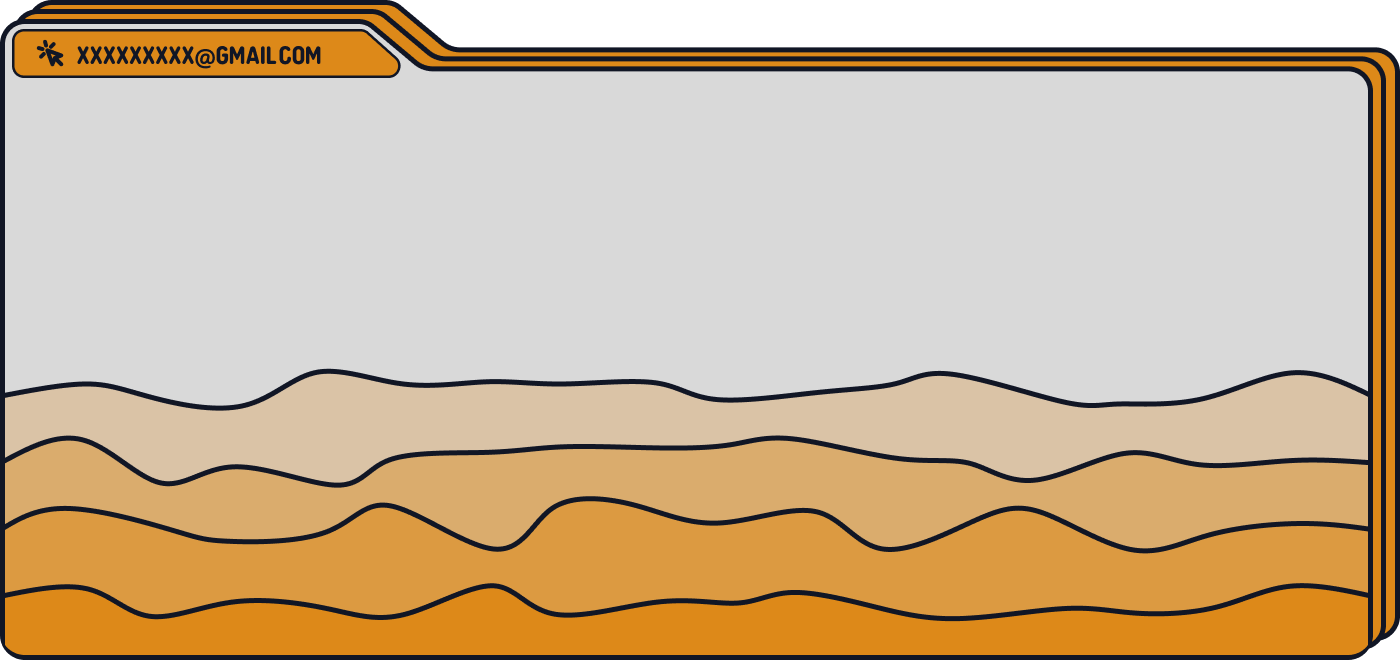
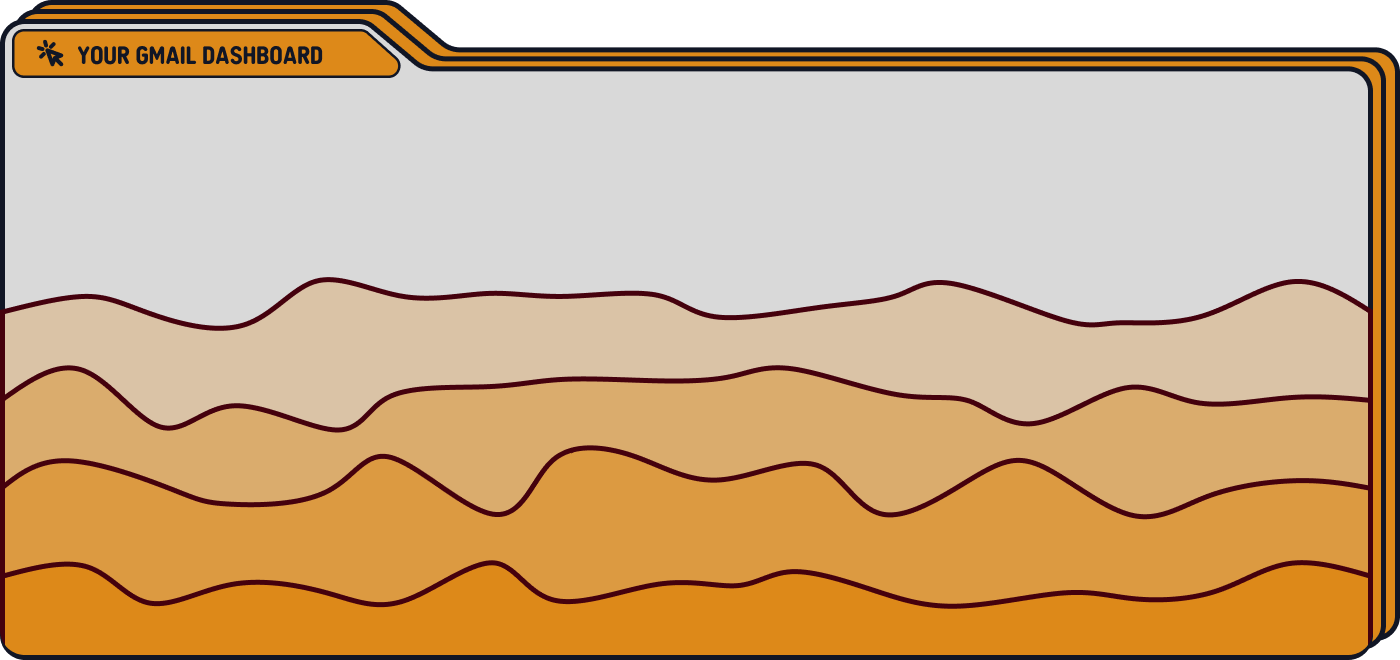
Created dashboard welcome component ui

diff --git a/src/components/dashboard components/Welcome/welcome.module.scss b/src/components/dashboard components/Welcome/welcome.module.scss
@@ -1,0 +1,86 @@
+.main {
+    display: flex;
+    align-items: center;
+    flex-direction: column;
+    justify-content: center;
+    position: relative;
+
+    height: fit-content;
+
+    .img {
+        width: 95%;
+        margin-top: 1em;
+        margin-top: 2em;
+        height: fit-content;
+        position: absolute;
+        top: 0;
+        left: 0;
+        // top: 50%;
+        left: 50%;
+        transform: translate(-50%, 0%);
+    }
+
+    .gridContainer {
+        display: grid;
+        grid-template-columns: 1fr 1fr 1fr;
+        gap: .5em;
+
+        .card {
+            position: relative;
+            width: 100%;
+            border-radius: 10px;
+
+            .logoContainer,
+            .reviewContainer {
+                background: #DD8919;
+                padding: 1em;
+                display: flex;
+                align-items: center;
+                justify-content: center;
+                border-radius: 10px;
+                border: 5px solid #111625;
+
+                img {
+                    width: 250px;
+                }
+            }
+
+            .reviewContainer {
+                padding: .5em;
+                margin-top: .5em;
+                flex-direction: column;
+                gap: .5em;
+
+                >div {
+                    background: #D9D9D9;
+                    width: 100%;
+                    border: 2px solid #111625;
+                    padding: .5em;
+                    border-radius: 8px;
+                    display: flex;
+                    gap: .5em;
+                    align-items: center;
+
+                    h2 {
+                        font-family: 'Paytone One';
+                        font-weight: 500;
+                        font-size: 1.2rem;
+                    }
+
+                    p {
+                        font-family: 'budokanRounded';
+                        color: rgba(0, 0, 0, 0.59);
+                        font-size: 1rem;
+                    }
+
+                    .profilePic {
+                        width: 50px;
+                        height: 50px;
+                        border-radius: 5px;
+                        background: #111625;
+                    }
+                }
+            }
+        }
+    }
+}

diff --git a/src/static/services.tsx b/src/static/services.tsx
@@ -1,0 +1,27 @@
+export const services = [
+    {
+        url: "https://media.discordapp.net/attachments/1144663357845147790/1188456009367302186/Rectangle_160.png?ex=659a96e9&is=658821e9&hm=8c8e036e552795ab4184f29e0e80237658eebb03b78479bb06a3c33cfb199bae&=&format=webp&quality=lossless&width=475&height=489",
+        title: "got my portfolio ready in 18 hours with CMS !!",
+        id: 1,
+    },
+    {
+        url: "https://media.discordapp.net/attachments/1144663357845147790/1188456010302623754/Rectangle_159.png?ex=659a96e9&is=658821e9&hm=ce9d42a6f24356a0b59bddffe24c837f5b32f6c2447d28d1b8ec73b05f52a6f1&=&format=webp&quality=lossless&width=429&height=490",
+        title: "got my portfolio ready in 18 hours with CMS !!",
+        id: 2,
+    },
+    {
+        url: "https://media.discordapp.net/attachments/1144663357845147790/1188456009023365211/Rectangle_161.png?ex=659a96e8&is=658821e8&hm=9636575d4526feb8962ecec63a11726db03c1ea57c3179fb8c8c1c6d2f6756f1&=&format=webp&quality=lossless&width=475&height=489",
+        title: "Learnt prompting for free and got 23% hike !!",
+        id: 3,
+    },
+    {
+        url: "https://media.discordapp.net/attachments/1144663357845147790/1188456008767508510/Rectangle_162.png?ex=659a96e8&is=658821e8&hm=3b6408da40ad5ec63ffe052e9b45cc8637683665a06e9a69ddb67ed2a81709c0&=&format=webp&quality=lossless&width=417&height=489",
+        title: "Helped in my university projects a lot !!",
+        id: 4,
+    },
+    {
+        url: "https://media.discordapp.net/attachments/1144663357845147790/1188458926124060672/image_35.png?ex=659a99a0&is=658824a0&hm=10014f60750f06c731ed990c1478cf1010ba6a2d02343d081b9970c55854cde5&=&format=webp&quality=lossless&width=417&height=483",
+        title: "Got my logo designs as I wanted in pdf !!",
+        id: 5,
+    },
+];

diff --git a/src/components/dashboard components/Welcome/Welcome.tsx b/src/components/dashboard components/Welcome/Welcome.tsx
@@ -1,0 +1,40 @@
+import React from 'react'
+import Navbar from '../../navbar/Navbar'
+import styles from "./welcome.module.scss"
+import Image from 'next/image'
+import { services } from '@/static/services'
+
+export default function Welcome() {
+  return (
+    <div>
+      <Navbar></Navbar>
+      <div className={styles.main}>
+        <div className={styles.gridContainer}>
+          {
+            services.map(() => {
+              return (
+                <div className={styles.card}>
+                  <div className={styles.reviewContainer}>
+                    <div>
+                      <div className={styles.profilePic}>
+
+                      </div>
+                      <div>
+                        <h2>Bishal Nandi</h2>
+                        <p>FOUNDER OF GROWITRAPID</p>
+                      </div>
+                    </div>
+
+                    <div>
+                      <p>I liked Clean Email best. Before, I had 17,677 unread emails. Now, it’s a fraction of that.</p>
+                    </div>
+                  </div>
+                </div>
+              )
+            })
+          }
+        </div>
+      </div>
+    </div>
+  )
+}

diff --git a/src/showcase/testimonials/Testimonials.tsx b/src/showcase/testimonials/Testimonials.tsx
@@ -60,21 +60,6 @@ export default function Testimonials() {
                                 <p>I liked Clean Email best. Before, I had 17,677 unread emails. Now, it’s a fraction of that.</p>
                             </div>
                         </div>
-                        {/* <div
-                            style={{
-                                backgroundImage: `url(${card.url})`,
-                                backgroundSize: "cover",
-                                backgroundPosition: "center",
-
-                            }}
-                            className={`absolute inset-0 z-0 w-[100%] h-[100%] rounded-[15px] ${styles.thumbContainer}`}
-                        ></div>
-                        <div>
-                            <p className={styles.box}>
-                                <div className="profile"></div>
-                                <span>{card.title}</span>
-                            </p>
-                        </div> */}
                     </SwiperSlide>
                 )
 

diff --git a/src/app/dashboard/page.tsx b/src/app/dashboard/page.tsx
@@ -1,0 +1,12 @@
+import React from 'react'
+import styles from "./page.module.scss"
+import Image from 'next/image'
+import Welcome from '@/components/dashboard components/Welcome/Welcome'
+
+export default function dashboard() {
+  return (
+    <div className={styles.parent}>
+      <Welcome></Welcome>
+    </div>
+  )
+}

diff --git a/src/app/dashboard/page.module.scss b/src/app/dashboard/page.module.scss
@@ -1,0 +1,14 @@
+@import url('https://fonts.googleapis.com/css2?family=Paytone+One&display=swap');
+
+.parent {
+    background: #FFCEAB;
+    height: fit-content;
+    width: 100vw;
+
+    .img {
+        width: 90%;
+        margin-top: 1em;
+        aspect-ratio: 16/9;
+    }
+}
+

diff --git a/src/app/globals.css b/src/app/globals.css
@@ -3,7 +3,6 @@
   src: url('./BudokanRounded-Bold.ttf');
 }
 
-
 ::-webkit-scrollbar {
   width: 20px;
 }
@@ -42,7 +41,7 @@
 
 html,
 body {
-  max-width: 100vw;
+  max-width: 100vw !important;
   overflow-x: hidden;
 }
 

diff --git a/src/app/page.module.scss b/src/app/page.module.scss
@@ -1,3 +1,5 @@
+@import url('https://fonts.googleapis.com/css2?family=Paytone+One&display=swap');
+
 .parentContainer {
   background: #FFCEAB;
   height: fit-content;

diff --git a/src/showcase/hero/hero.module.scss b/src/showcase/hero/hero.module.scss
@@ -1,5 +1,3 @@
-@import url('https://fonts.googleapis.com/css2?family=Paytone+One&display=swap');
-
 .main {
     display: flex;
     align-items: center;
